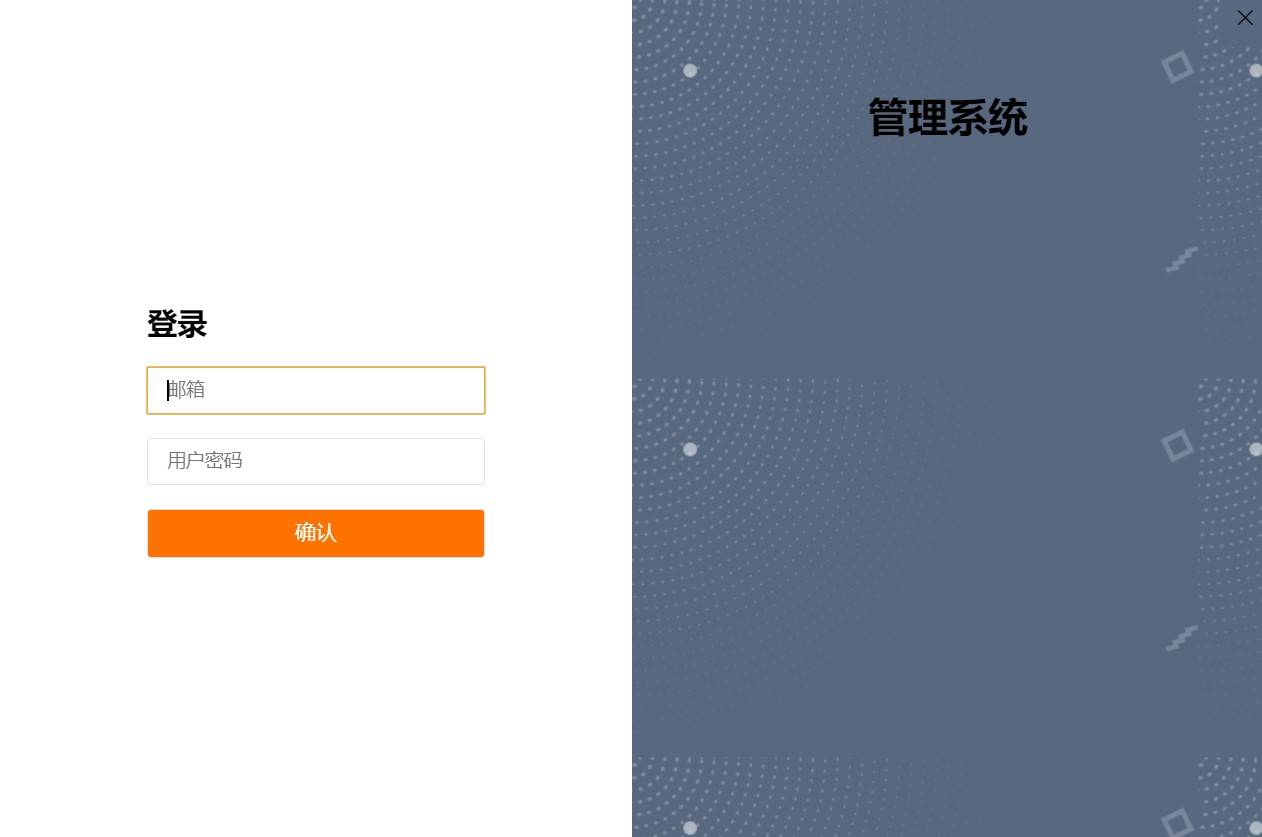
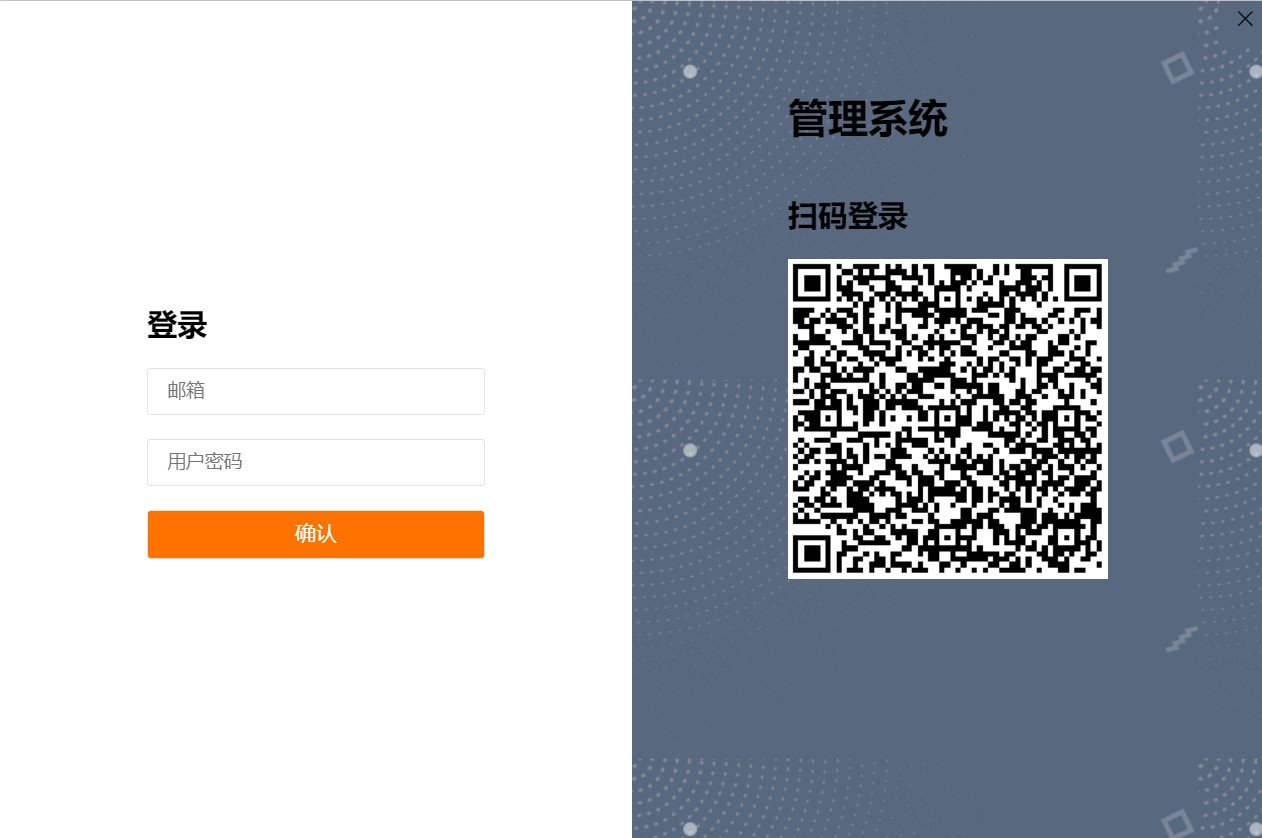
完善微信扫码登录

diff --git a/src/store/index.js b/src/store/index.js
@@ -11,7 +11,8 @@ export default new Vuex.Store({
     // 登录的用户id
     userId: sessionStorage.getItem('userId') ? sessionStorage.getItem('userId') : null,
     // 是否是管理员
-    isSuper: sessionStorage.getItem('isSuper') ? sessionStorage.getItem('isSuper') : false
+    isSuper: sessionStorage.getItem('isSuper') ? sessionStorage.getItem('isSuper') : false,
+    avator_url: sessionStorage.getItem('avator_url') ? sessionStorage.getItem('avator_url') : null
   },
   mutations: {
     // 修改token，并将token存入localStorage
@@ -20,9 +21,11 @@ export default new Vuex.Store({
       state.token = user.token;
       state.userId = user.id;
       state.isSuper = user.super;
+      state.avator_url = user.avator_url;
       sessionStorage.setItem('token', user.token);
       sessionStorage.setItem('userId', user.id);
       sessionStorage.setItem('isSuper', user.super);
+      sessionStorage.setItem('avator_url', user.avator_url);
     }
   },
   actions: {

diff --git a/src/views/login/Login.vue b/src/views/login/Login.vue
@@ -96,7 +96,8 @@ export default {
         let user = {
           token: data.message.token,
           id: data.message.userId,
-          super: data.message.isSuper
+          super: data.message.isSuper,
+          avator_url: data.message.avator_url
         };
         this.changeLogin(user);
         console.log("aaa");
@@ -143,7 +144,8 @@ export default {
               let user = {
                 token: res.data.data.token,
                 id: res.data.data.userId,
-                super: res.data.data.super
+                super: res.data.data.super,
+                avator_url: null
               };
               _this.changeLogin(user);
               console.log("aaa");

diff --git a/src/views/Title.vue b/src/views/Title.vue
@@ -20,7 +20,9 @@
         <el-avatar
           :size="25"
           src="https://cube.elemecdn.com/0/88/03b0d39583f48206768a7534e55bcpng.png"
+          v-if="avator_url == null"
         ></el-avatar>
+        <el-avatar :size="25" :src="avator_url" v-else></el-avatar>
       </div>
       <!-- 头像旁边的下拉栏 -->
       <el-dropdown
@@ -58,7 +60,7 @@ export default {
   components: {
     mmcButton
   },
-  computed: mapState(["userId", "isSuper"]), //得到vuex 里面的用户信息
+  computed: mapState(["userId", "isSuper", "avator_url"]), //得到vuex 里面的用户信息
   methods: {
     goback() {
       this.$router.go(-1);

diff --git a/README.md b/README.md
@@ -8,8 +8,7 @@
 
 
 
-本项目是我在数据库课程设计时完成的， 当时课程指导书说要用java+swing, 而我并不想用swing， 就使用前端技术写了一份。
-本项目技术栈：
+这个小项目是我在数据库课程设计时完成的，功能比不是很完善，bug也比较多。支持邮箱密码登录，也支持微信扫码登录。微信扫码登录那里使用 `websocket` 完成后端到前端的消息传递。
 
 **前端**
 
